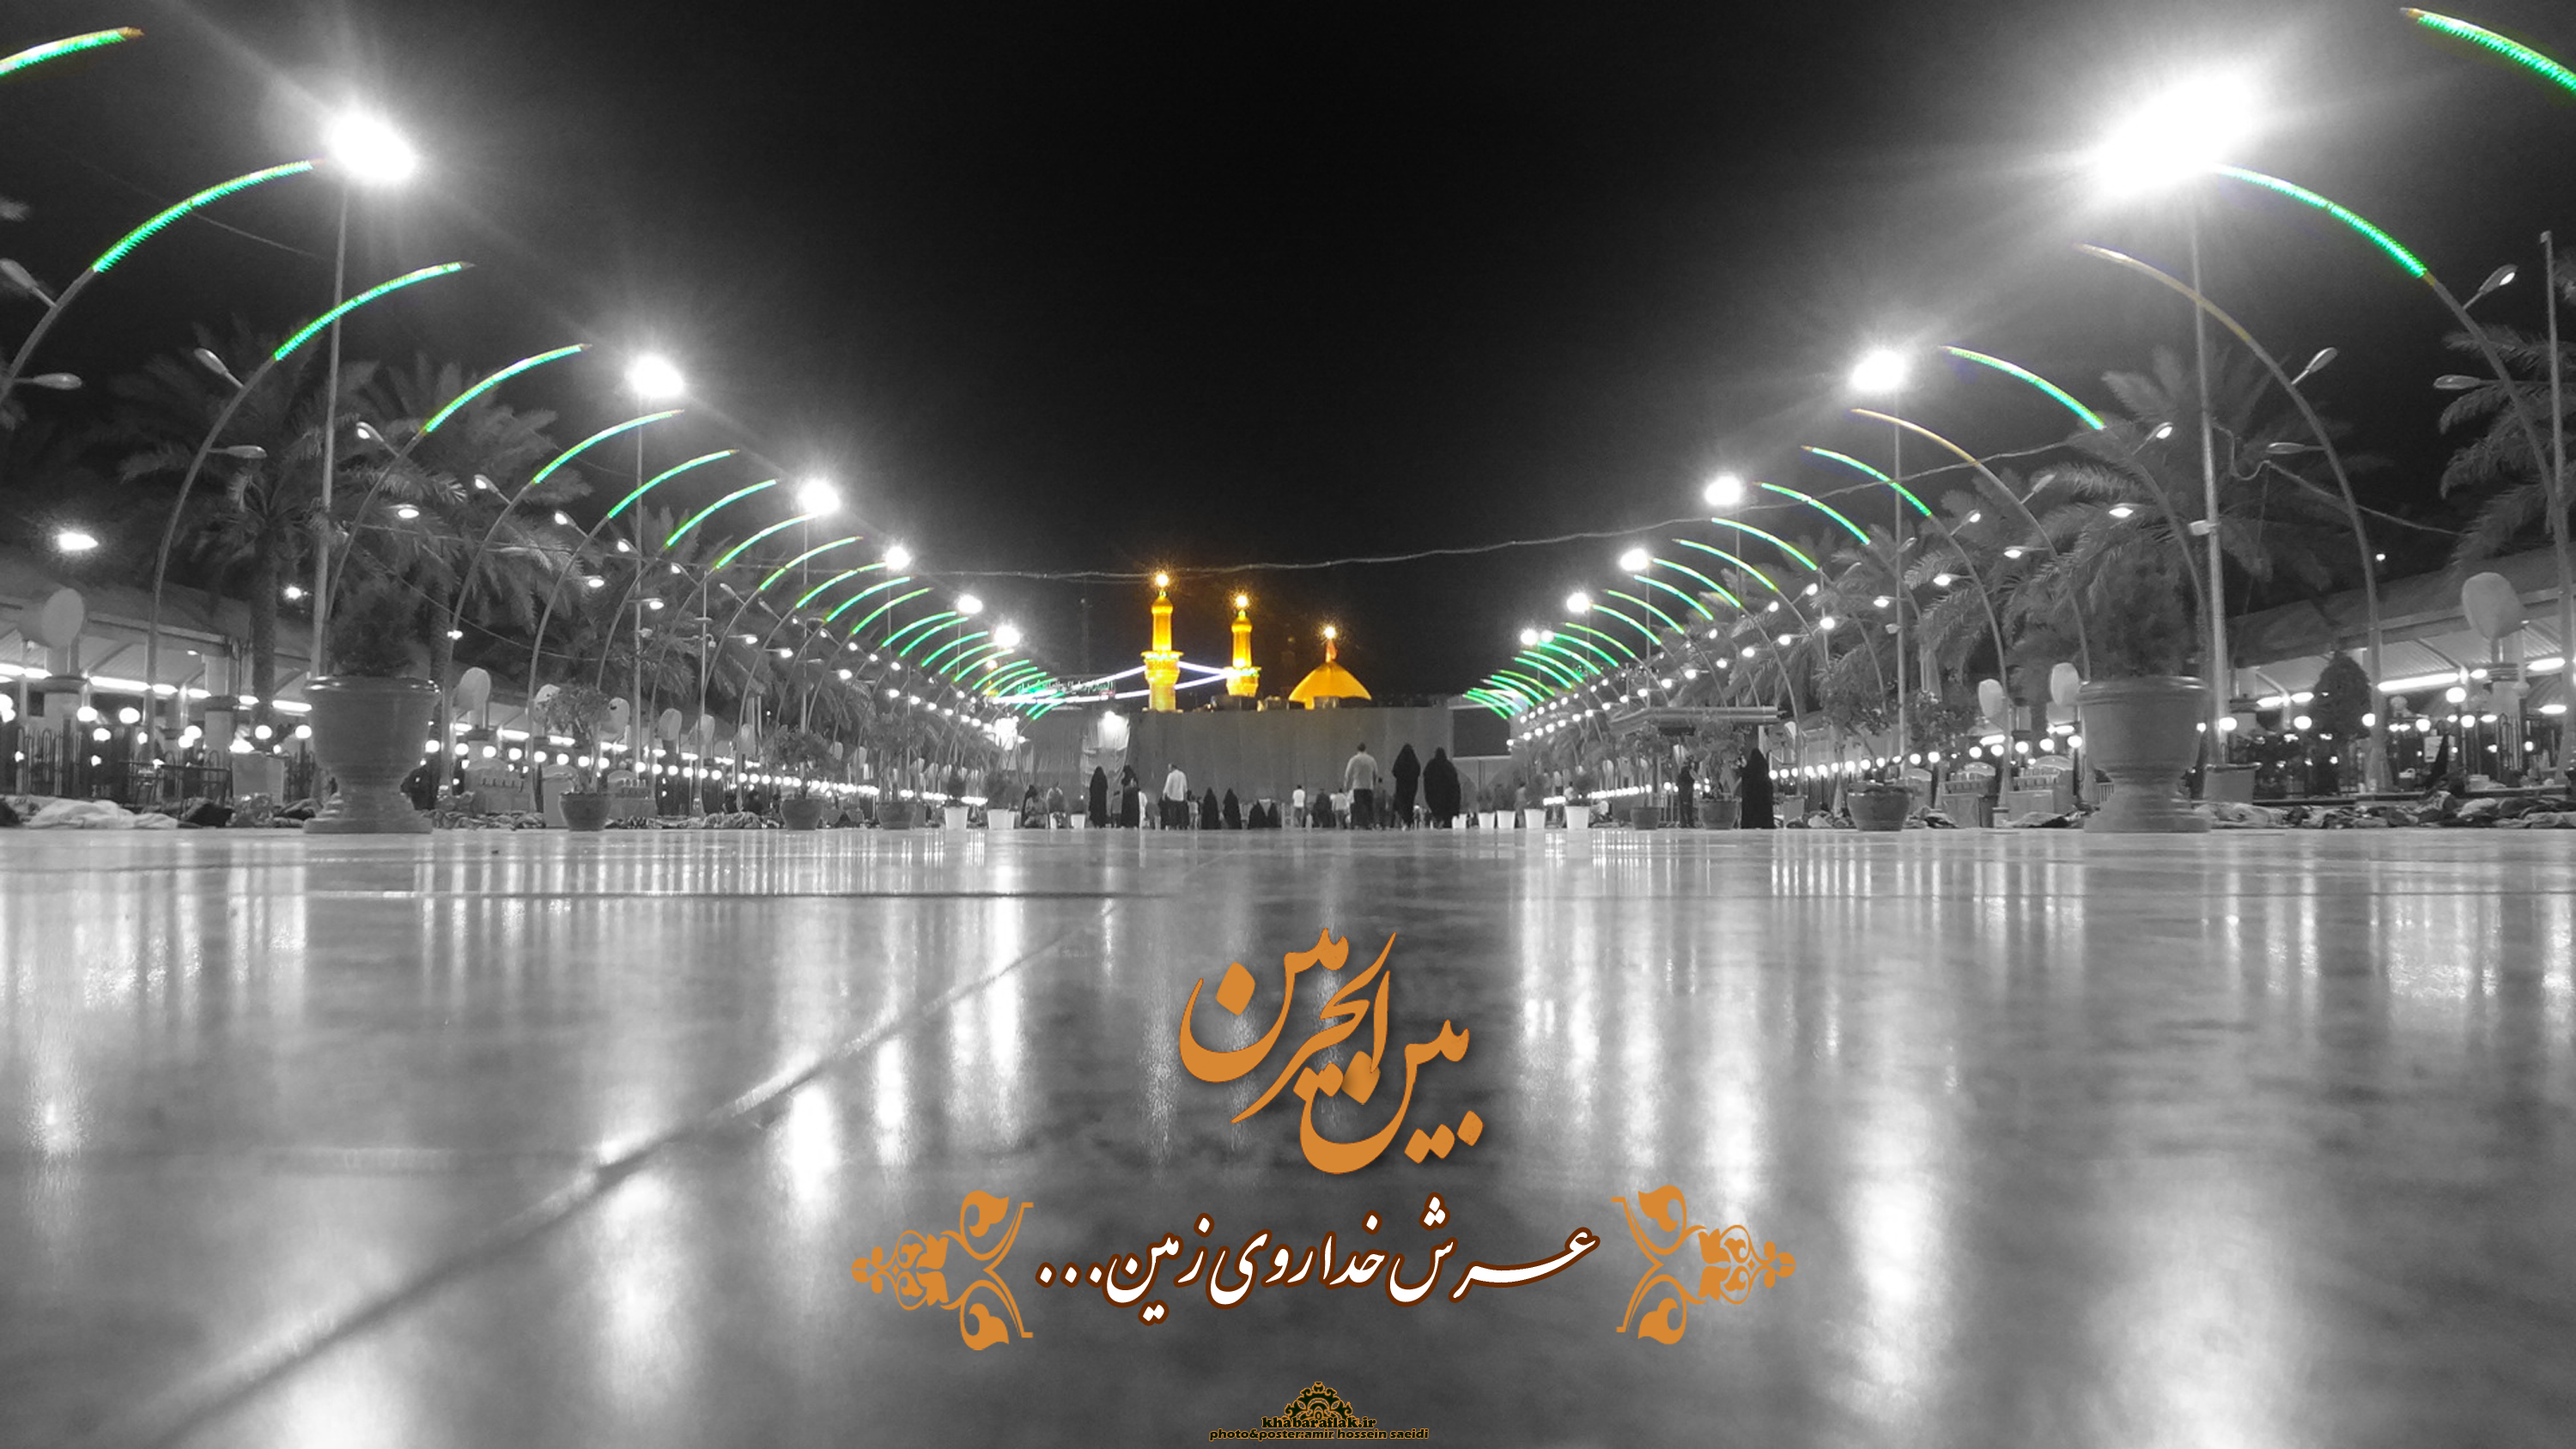
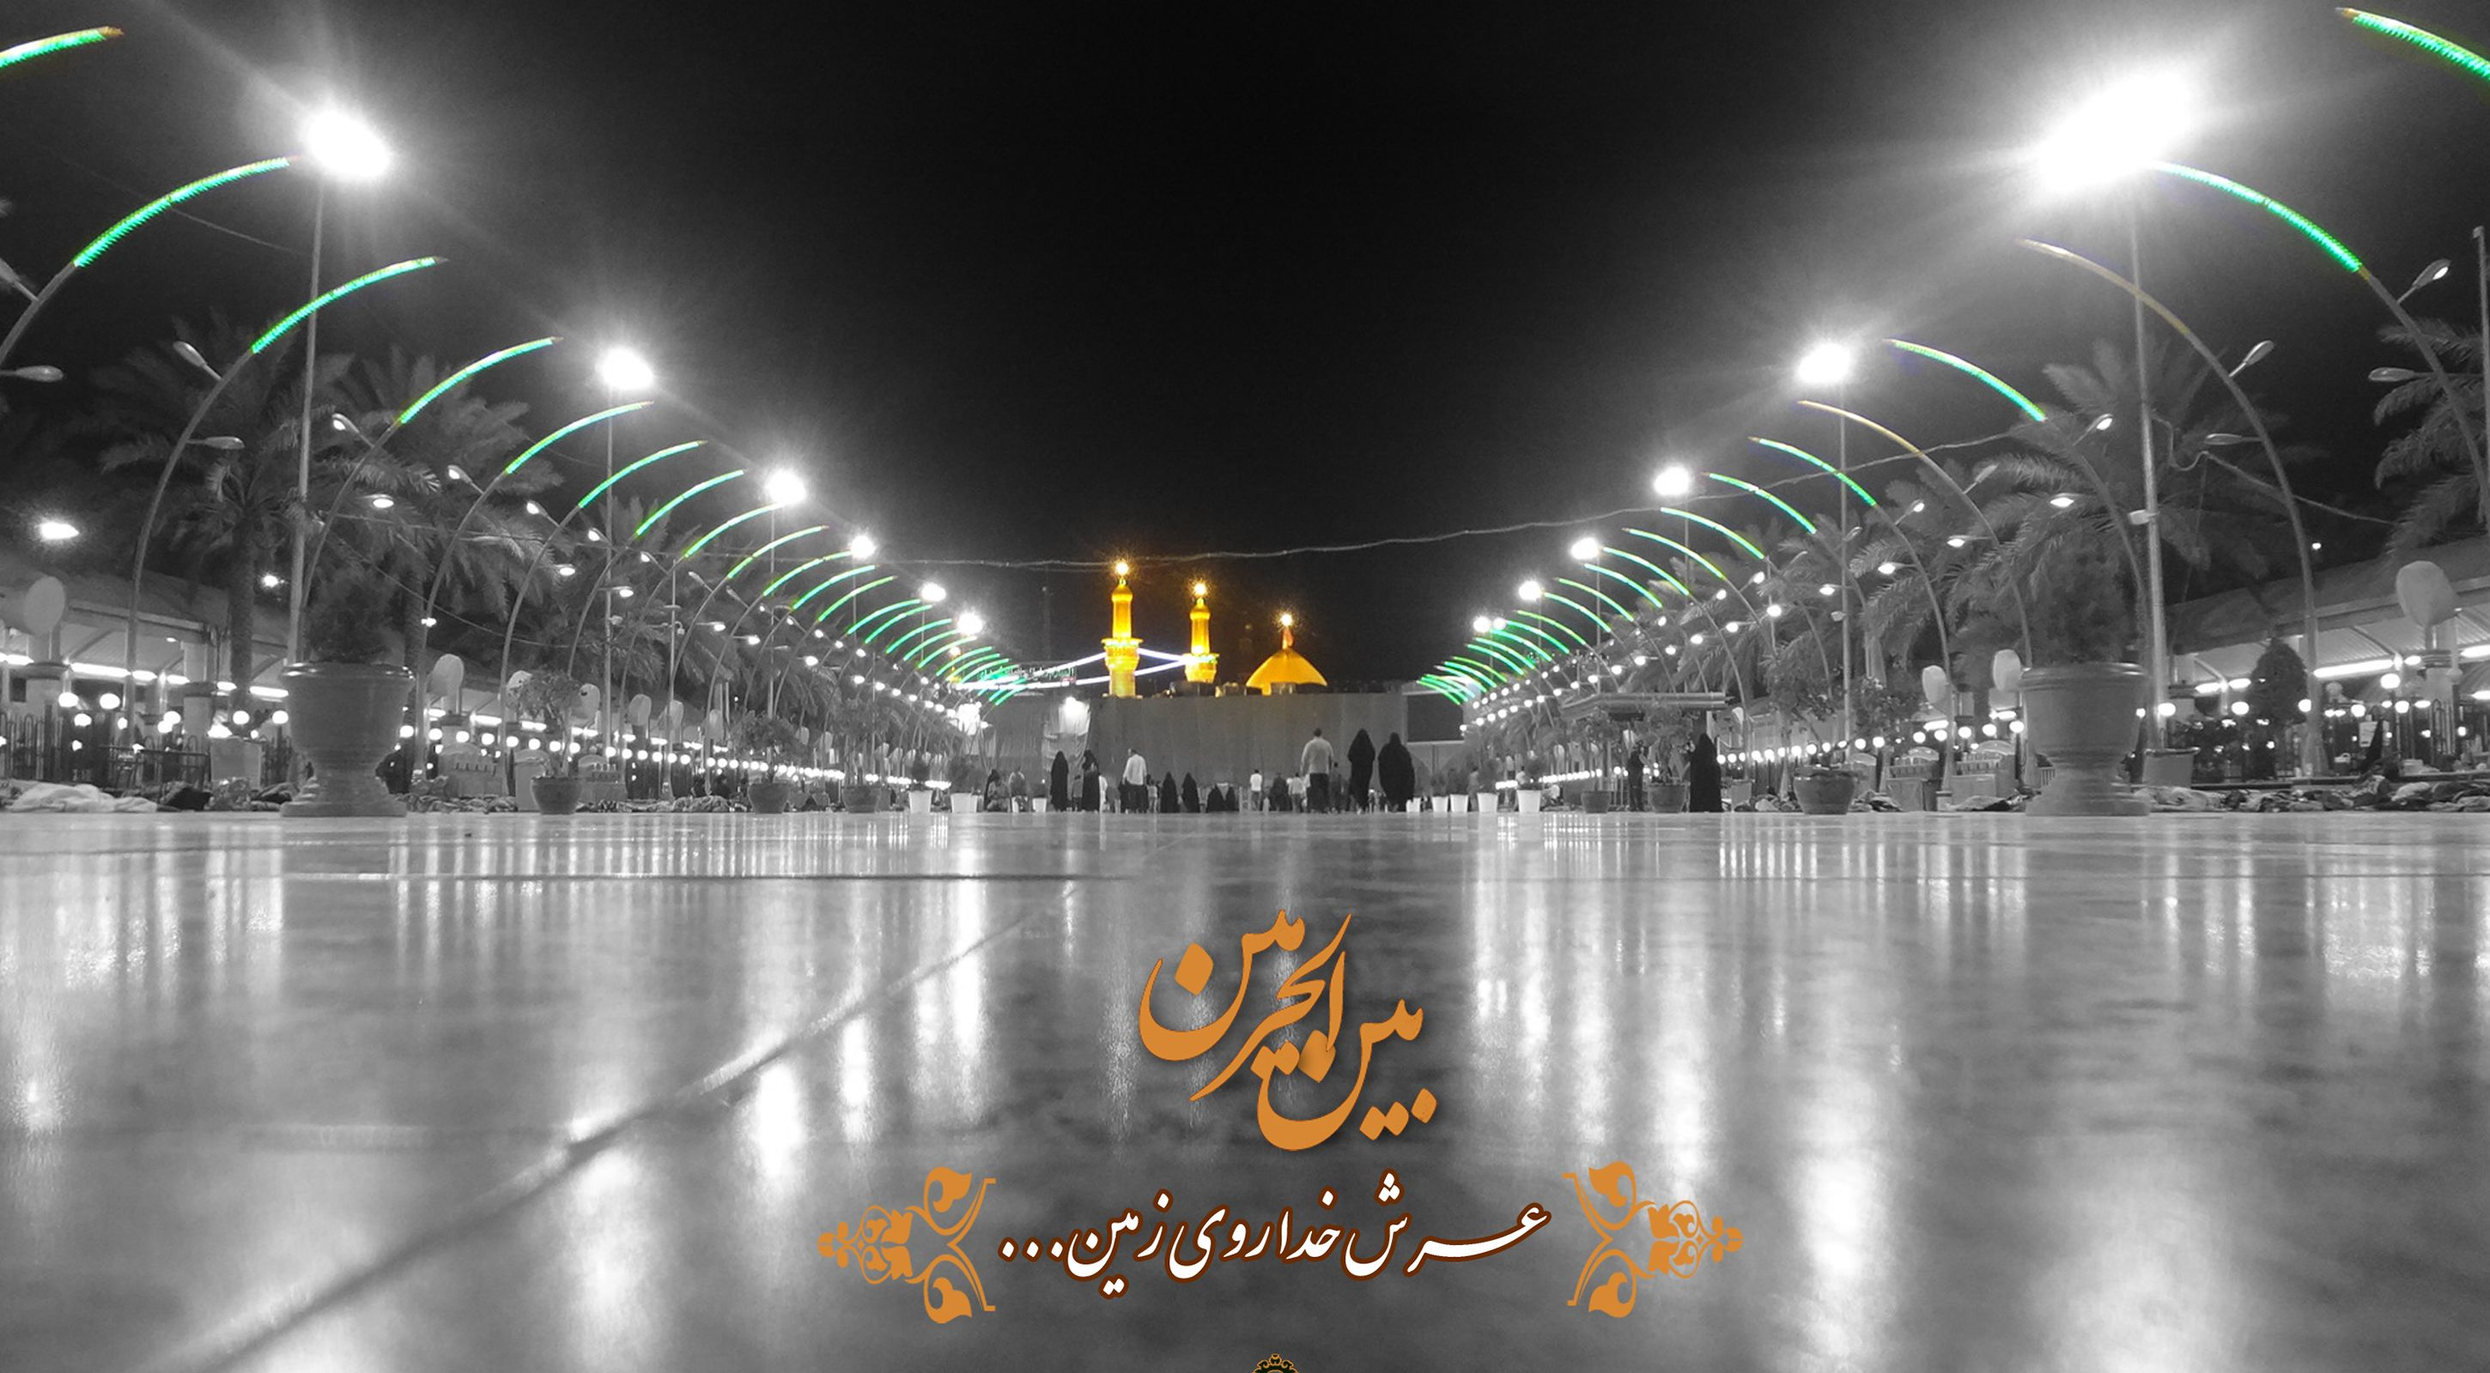
fix homepage background

diff --git a/public_html/static/css/style.css b/public_html/static/css/style.css
@@ -80,9 +80,10 @@ body.loading-page .site-header .logo img{padding:7px;opacity:0.7}
   background-image: url('/static/images/homepage/desk.jpg');
   min-height:700px;
   height: 100vh;
+  height: calc(100vh - 60px);
   max-height: 1000px;
   /*background-attachment: fixed;*/
-  background-position: center;
+  background-position: bottom center;
   background-repeat: no-repeat;
   background-size: cover;
   color:#fff;
